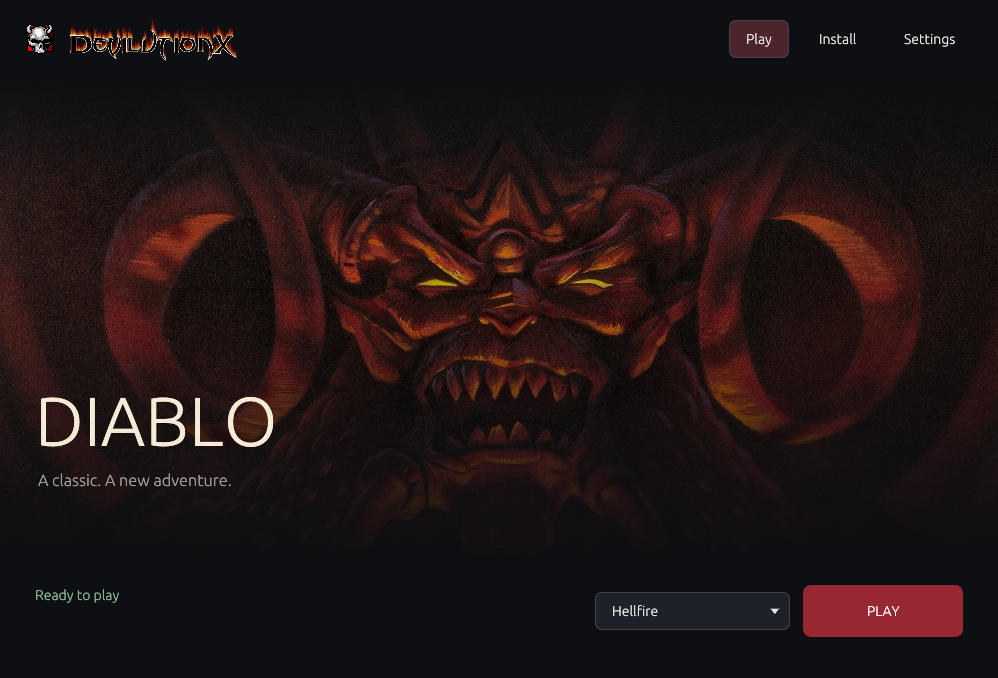
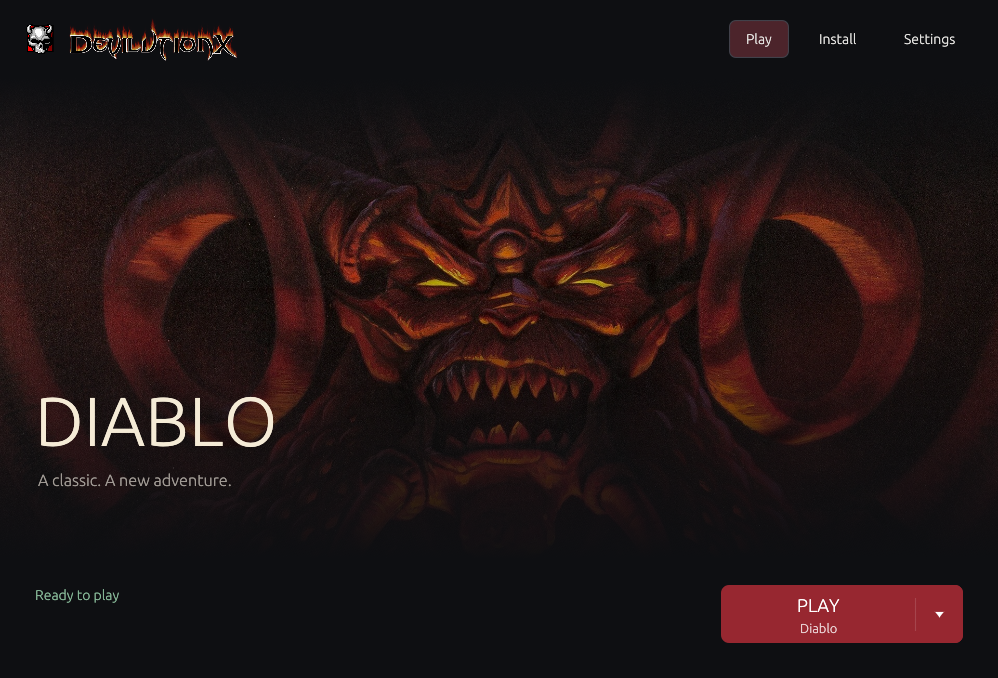
Integrate edition selection into a split Play button

Changed region(s): [[0.7144, 0.8363, 0.9629, 0.9602], [0.5902, 0.8673, 0.6834, 0.9292]]

diff --git a/src/ui/widgets.rs b/src/ui/widgets.rs
@@ -1,4 +1,4 @@
-use super::theme::PRIMARY;
+use super::theme::{PRIMARY, PRIMARY_ACTIVE, PRIMARY_HOVER};
 use eframe::egui::{self, Color32, RichText, Vec2};
 
 pub(crate) fn action_button(
@@ -12,11 +12,11 @@ pub(crate) fn action_button(
         widgets.inactive.weak_bg_fill = PRIMARY;
         widgets.inactive.bg_fill = PRIMARY;
         widgets.inactive.bg_stroke = egui::Stroke::NONE;
-        widgets.hovered.weak_bg_fill = Color32::from_rgb(183, 48, 57);
-        widgets.hovered.bg_fill = Color32::from_rgb(183, 48, 57);
+        widgets.hovered.weak_bg_fill = PRIMARY_HOVER;
+        widgets.hovered.bg_fill = PRIMARY_HOVER;
         widgets.hovered.bg_stroke = egui::Stroke::new(1.0_f32, Color32::from_rgb(216, 95, 102));
-        widgets.active.weak_bg_fill = Color32::from_rgb(119, 27, 36);
-        widgets.active.bg_fill = Color32::from_rgb(119, 27, 36);
+        widgets.active.weak_bg_fill = PRIMARY_ACTIVE;
+        widgets.active.bg_fill = PRIMARY_ACTIVE;
         ui.add_enabled(
             enabled,
             egui::Button::new(RichText::new(label).strong().color(Color32::WHITE))
@@ -25,6 +25,161 @@ pub(crate) fn action_button(
         )
     })
     .inner
+}
+
+/// One control with independent launch and edition-menu hit areas.
+pub(crate) fn split_action_button(
+    ui: &mut egui::Ui,
+    label: &str,
+    edition: &str,
+    enabled: bool,
+    menu_enabled: bool,
+    contents: impl FnOnce(&mut egui::Ui),
+) -> egui::Response {
+    let (rect, outer) = ui.allocate_exact_size(Vec2::new(224.0, 54.0), egui::Sense::hover());
+    let menu_rect = egui::Rect::from_min_max(
+        egui::pos2(rect.right() - 44.0, rect.top()),
+        rect.right_bottom(),
+    );
+    let action_rect = egui::Rect::from_min_max(rect.left_top(), menu_rect.left_bottom());
+    let enabled = enabled && ui.is_enabled();
+    let menu_enabled = menu_enabled && ui.is_enabled();
+    let action = ui.interact(
+        action_rect,
+        outer.id.with("action"),
+        if enabled {
+            egui::Sense::click()
+        } else {
+            egui::Sense::hover()
+        },
+    );
+    let menu = ui.interact(
+        menu_rect,
+        outer.id.with("edition"),
+        if menu_enabled {
+            egui::Sense::click()
+        } else {
+            egui::Sense::hover()
+        },
+    );
+    action.widget_info(|| {
+        egui::WidgetInfo::labeled(
+            egui::WidgetType::Button,
+            enabled,
+            format!("{label} {edition}"),
+        )
+    });
+    menu.widget_info(|| {
+        egui::WidgetInfo::labeled(egui::WidgetType::Button, menu_enabled, "Choose game")
+    });
+    let disabled = ui.visuals().widgets.noninteractive.bg_fill;
+    ui.painter()
+        .rect_filled(rect, 7, if enabled { PRIMARY } else { disabled });
+    let action_fill = if enabled && action.is_pointer_button_down_on() {
+        Some(PRIMARY_ACTIVE)
+    } else if enabled && (action.hovered() || action.has_focus()) {
+        Some(PRIMARY_HOVER)
+    } else {
+        None
+    };
+    if let Some(fill) = action_fill {
+        ui.painter().rect_filled(
+            action_rect,
+            egui::CornerRadius {
+                nw: 7,
+                sw: 7,
+                ne: 0,
+                se: 0,
+            },
+            fill,
+        );
+    }
+    let menu_fill = if !menu_enabled {
+        if enabled { PRIMARY } else { disabled }
+    } else if menu.is_pointer_button_down_on() {
+        PRIMARY_ACTIVE
+    } else if menu.hovered() || menu.has_focus() {
+        PRIMARY_HOVER
+    } else {
+        PRIMARY
+    };
+    ui.painter().rect_filled(
+        menu_rect,
+        egui::CornerRadius {
+            nw: 0,
+            sw: 0,
+            ne: 7,
+            se: 7,
+        },
+        menu_fill,
+    );
+    let text = if enabled {
+        Color32::WHITE
+    } else {
+        Color32::from_gray(135)
+    };
+    ui.painter().text(
+        action_rect.center() + egui::vec2(0.0, -8.0),
+        egui::Align2::CENTER_CENTER,
+        label,
+        egui::FontId::proportional(17.0),
+        text,
+    );
+    ui.painter().text(
+        action_rect.center() + egui::vec2(0.0, 13.0),
+        egui::Align2::CENTER_CENTER,
+        edition,
+        egui::FontId::proportional(12.0),
+        if enabled {
+            Color32::from_white_alpha(205)
+        } else {
+            text
+        },
+    );
+    ui.painter().line_segment(
+        [
+            menu_rect.left_top() + egui::vec2(0.0, 12.0),
+            menu_rect.left_bottom() - egui::vec2(0.0, 12.0),
+        ],
+        egui::Stroke::new(1.0_f32, Color32::from_white_alpha(35)),
+    );
+    let center = menu_rect.center();
+    ui.painter().add(egui::Shape::convex_polygon(
+        vec![
+            center + egui::vec2(-4.0, -2.0),
+            center + egui::vec2(4.0, -2.0),
+            center + egui::vec2(0.0, 3.0),
+        ],
+        if menu_enabled {
+            Color32::WHITE
+        } else {
+            Color32::from_gray(115)
+        },
+        egui::Stroke::NONE,
+    ));
+    let popup = action.id.with("edition-menu");
+    if !menu_enabled || !ui.clip_rect().intersects(rect) {
+        egui::Popup::close_id(ui.ctx(), popup);
+    } else {
+        egui::Popup::menu(&menu)
+            .id(popup)
+            .anchor(rect)
+            .align(egui::RectAlign::TOP_END)
+            .width(rect.width())
+            .show(|ui| {
+                ui.set_min_width(ui.available_width());
+                contents(ui);
+            });
+    }
+    if menu_enabled {
+        menu.on_hover_cursor(egui::CursorIcon::PointingHand)
+            .on_hover_text("Choose game");
+    }
+    if enabled {
+        action.on_hover_cursor(egui::CursorIcon::PointingHand)
+    } else {
+        action
+    }
 }
 
 pub(crate) fn dropdown(
@@ -71,6 +226,71 @@ pub(crate) fn dropdown(
 #[cfg(test)]
 mod tests {
     use super::*;
+
+    #[test]
+    fn split_button_keeps_launch_and_menu_clicks_independent() {
+        let ctx = egui::Context::default();
+        let render = |events: Vec<egui::Event>, enabled| {
+            let mut response = None;
+            let _ = ctx.run(
+                egui::RawInput {
+                    screen_rect: Some(egui::Rect::from_min_size(
+                        egui::Pos2::ZERO,
+                        Vec2::new(800.0, 600.0),
+                    )),
+                    events,
+                    ..Default::default()
+                },
+                |ctx| {
+                    egui::CentralPanel::default().show(ctx, |ui| {
+                        response = Some(split_action_button(
+                            ui,
+                            "PLAY",
+                            "Hellfire",
+                            enabled,
+                            enabled,
+                            |ui| {
+                                ui.label("Diablo");
+                            },
+                        ));
+                    });
+                },
+            );
+            response.unwrap()
+        };
+        let initial = render(vec![], true);
+        let click = |pos, enabled| {
+            render(
+                vec![
+                    egui::Event::PointerMoved(pos),
+                    egui::Event::PointerButton {
+                        pos,
+                        button: egui::PointerButton::Primary,
+                        pressed: true,
+                        modifiers: Default::default(),
+                    },
+                ],
+                enabled,
+            );
+            render(
+                vec![egui::Event::PointerButton {
+                    pos,
+                    button: egui::PointerButton::Primary,
+                    pressed: false,
+                    modifiers: Default::default(),
+                }],
+                enabled,
+            )
+        };
+        let menu_click = click(initial.rect.right_center() + egui::vec2(22.0, 0.0), true);
+        assert!(!menu_click.clicked(), "The arrow must only open the menu");
+        let popup = initial.id.with("edition-menu");
+        assert!(egui::Popup::is_id_open(&ctx, popup));
+        egui::Popup::close_id(&ctx, popup);
+        assert!(click(initial.rect.center(), true).clicked());
+        assert!(!click(initial.rect.center(), false).clicked());
+    }
+
     #[test]
     fn popup_closes_when_its_anchor_scrolls_out_of_view() {
         let ctx = egui::Context::default();

diff --git a/src/ui/home.rs b/src/ui/home.rs
@@ -1,7 +1,7 @@
 use super::{
     Tab,
     theme::{BACKGROUND, GOLD, MUTED},
-    widgets::action_button,
+    widgets::split_action_button,
 };
 use crate::{app::Launcher, config::GameConfig, game::Game};
 use eframe::egui::{self, Color32, Vec2};
@@ -125,11 +125,22 @@ pub(crate) fn show(app: &mut Launcher, ui: &mut egui::Ui) {
                     } else {
                         "INSTALL"
                     };
-                    if action_button(
+                    let selected = app.settings.game.title();
+                    let selectable = app.settings.has_data(Game::Diablo)
+                        && app.settings.has_data(Game::Hellfire);
+                    if split_action_button(
                         ui,
                         label,
+                        selected,
                         !running && !installing && !dirty,
-                        Vec2::new(148.0, 48.0),
+                        !running && !installing && selectable,
+                        |ui| {
+                            for game in [Game::Diablo, Game::Hellfire] {
+                                if app.settings.has_data(game) {
+                                    ui.selectable_value(&mut app.settings.game, game, game.title());
+                                }
+                            }
+                        },
                     )
                     .clicked()
                     {
@@ -141,18 +152,6 @@ pub(crate) fn show(app: &mut Launcher, ui: &mut egui::Ui) {
                         }
                         ui.ctx().request_repaint_after(Duration::from_millis(500));
                     }
-                    ui.add_enabled_ui(!running && !installing, |ui| {
-                        super::widgets::dropdown(ui, app.settings.game.title(), |ui| {
-                            for game in [Game::Diablo, Game::Hellfire] {
-                                if app.settings.has_data(game) {
-                                    ui.selectable_value(&mut app.settings.game, game, game.title());
-                                }
-                            }
-                            if !app.settings.has_data(Game::Diablo) {
-                                ui.label("No game installed yet");
-                            }
-                        });
-                    });
                 });
             });
             if !app.message.is_empty() && app.error {

diff --git a/src/ui/theme.rs b/src/ui/theme.rs
@@ -1,6 +1,8 @@
 use eframe::egui::{self, Color32, Vec2};
 pub(crate) const GOLD: Color32 = Color32::from_rgb(225, 166, 92);
 pub(crate) const PRIMARY: Color32 = Color32::from_rgb(151, 39, 48);
+pub(crate) const PRIMARY_HOVER: Color32 = Color32::from_rgb(183, 48, 57);
+pub(crate) const PRIMARY_ACTIVE: Color32 = Color32::from_rgb(119, 27, 36);
 pub(crate) const BACKGROUND: Color32 = Color32::from_rgb(14, 15, 18);
 pub(crate) const MUTED: Color32 = Color32::from_rgb(160, 154, 148);
 

diff --git a/README.md b/README.md
@@ -15,9 +15,9 @@ Install Diablo I, choose your settings, and return to Tristram — all from one 
 1. Install the [packages for your system](#requirements).
 2. Open the launcher and select **Install**.
 3. Choose **Diablo** or **Diablo + Hellfire**, then click **Install missing files**.
-4. Return to **Play** and choose the game beside the Play button.
+4. Return to **Play** and use the arrow inside the Play button to choose your game.
 
-Only installed games appear in the selector. Existing game files and saves are kept. You can also use your own installation under **Settings → Advanced**.
+The Play button shows the selected game. Its arrow lets you switch when both games are installed. Existing game files and saves are kept. You can also use your own installation under **Settings → Advanced**.
 
 ![Installing the game](assets/install.png)
 
@@ -117,7 +117,7 @@ cargo clippy --locked --all-targets -- -D warnings
 cargo fmt --check
 ```
 
-Thirteen offline tests cover settings, edition detection, local HTTP downloads, size/checksum failures, active-download cancellation, unsafe archives, and preservation of files and saves. A separate live test also completed a fresh Diablo + Hellfire install from the configured servers in an isolated folder. The live test used this machine's local SDL libraries; package installation across all distributions has not been verified.
+Fourteen offline tests cover settings, edition detection, local HTTP downloads, size/checksum failures, active-download cancellation, unsafe archives, and preservation of files and saves. A separate live test also completed a fresh Diablo + Hellfire install from the configured servers in an isolated folder. The live test used this machine's local SDL libraries; package installation across all distributions has not been verified.
 
 The network test is opt-in because it downloads about 700 MB:
 
